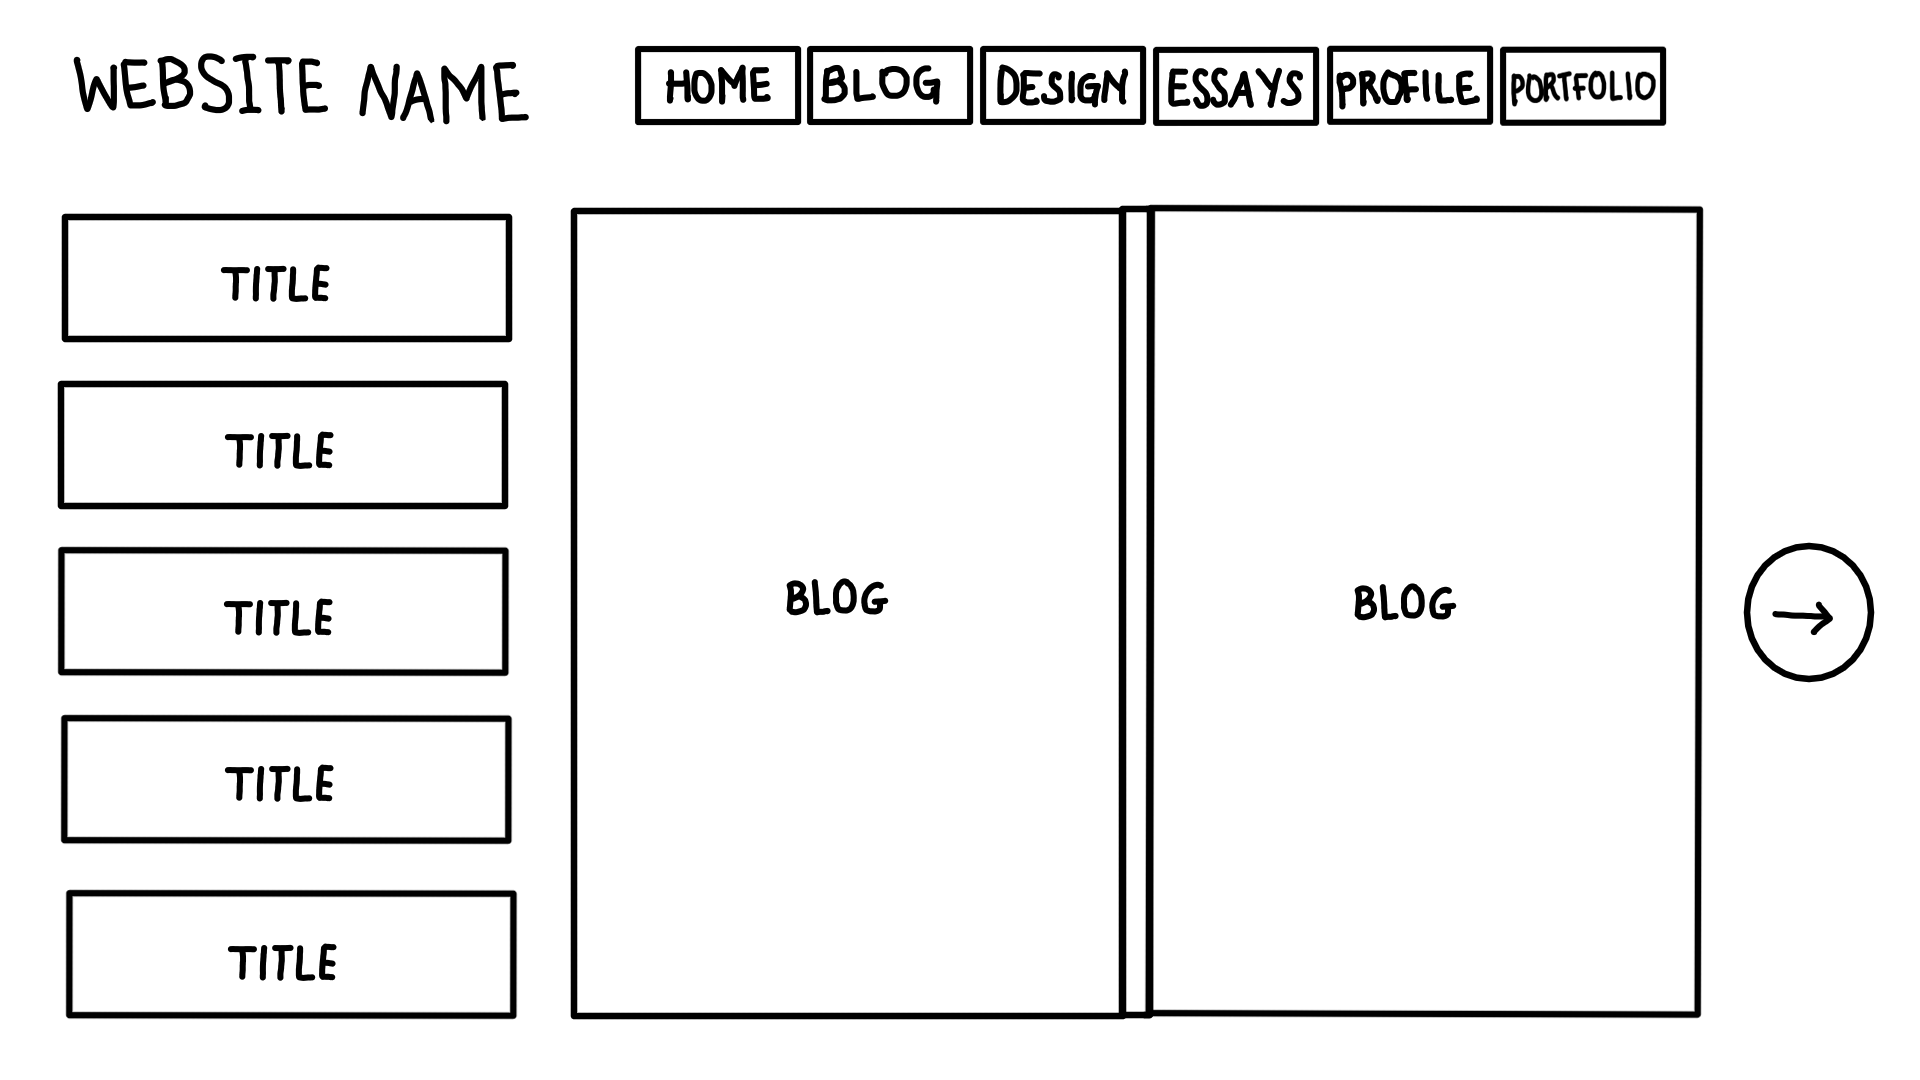
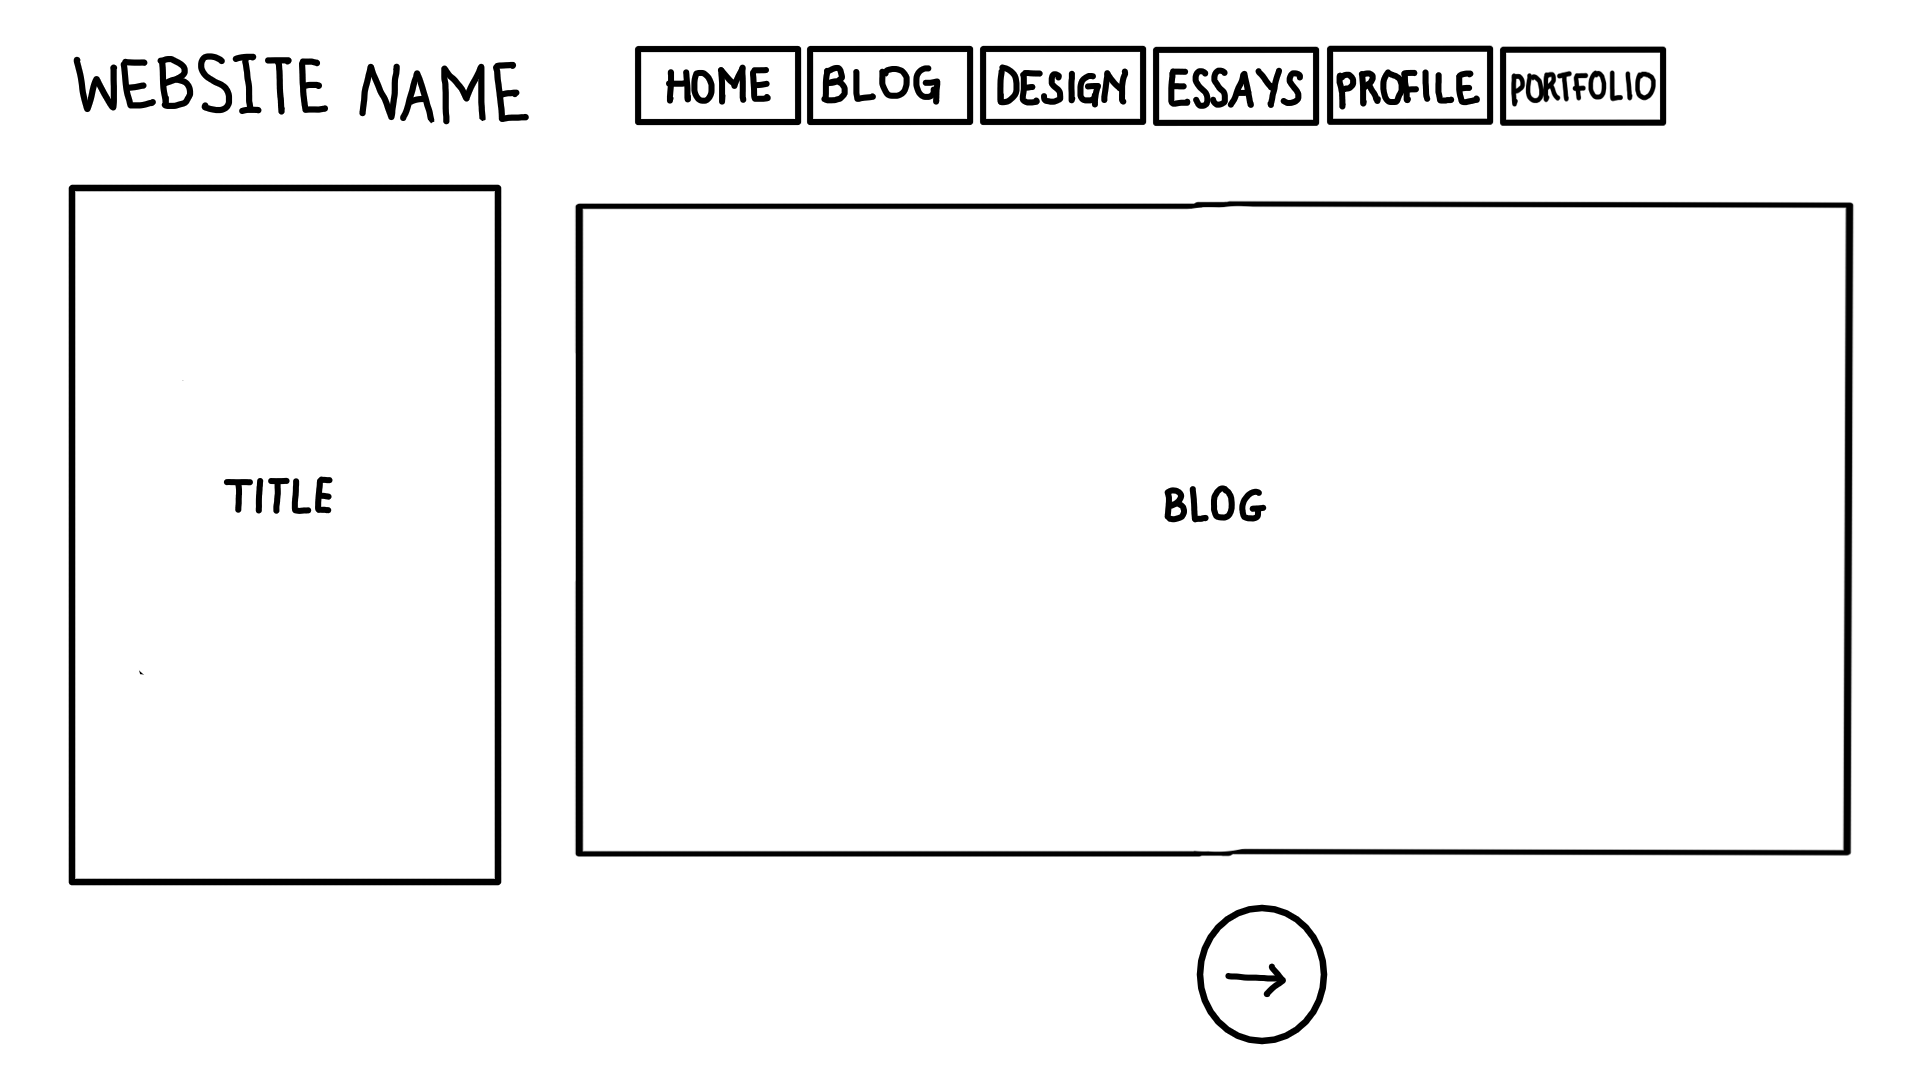
Added Wireframes To Design Page

diff --git a/design.html b/design.html
@@ -18,7 +18,7 @@
     <td><a  href="index.html">Home</a></td>
     <td><a  href="blog.html">Blog Posts</a></td>
     <td>Design Process</td>
-    <td><a  href="essays.html">Essays</a></td>
+    <td><a  href="essay1.html">Essays</a></td>
     <td><a  href="profile.html">Profile</a></td>
     <td><a  href="portfolio.html">Portfolio</a></td>
 </ul></h4>
@@ -32,64 +32,65 @@
 <header><h2>Wireframes</h2></header>
 
 <main>
-    <table border="2" cellspacing="0" cellpadding="10">
+    <table border="2" cellspacing="0" cellpadding="7">
     <tr>
-    <th>Homepage</th>
+    <th bgcolor="#d3d3d3"><h3>Homepage</h3></th>
     <td><img src="images/Home - Wireframe.png" width="600" height="400"alt="A homepage wireframe"></td> 
-    <td align="center">The homepage will have the website name at the top of the page in the middle. 
+    <td align="center"><font size="4px">The homepage will have the website name at the top of the page in the middle. 
         <br>Underneath it will be a navigation bar that the viewer can click to go to other pages. 
         <br>The rest of the page will be a large image that represents who I am or the theme 
-        <br>of my website.</td>
+        <br>of my website.</font></td>
     <tr>
     
     <tr>
-    <th>Blog</th>
+    <th bgcolor="#d3d3d3"><h3>Blog</h3></th>
     <td><img src="images/Blog - Wireframe.png" width="600" height="400"alt="A blog page wireframe"></td>
-    <td align="center">The blog page will have the website name at the top left corner and a navigation
-        <br>bar at the top right corner. On the left side of the page there will be links to other 
-        <br>blog posts (these are represented by the word "title"). The middle of the page will be 
-        <br>the blog post that is currently opened. It will look like the pages of a notebook. 
-        <br>On the right side there will be a button to turn the page.</td>
+    <td align="center"><font size="4px">The blog page will have the website name at the top left corner and a navigation
+        <br>bar at the top right corner. On the left side of the page there will be the title of the 
+        <br>blog post. The middle of the page will be the blog post that is currently opened.
+        <br>Below it there will be a button to go to the next page.</font></td>
     </tr>
 
     <tr>
-    <th>Design</th>
+    <th bgcolor="#d3d3d3"><h3>Design</h3></th>
     <td><img src="images/Design - Wireframe.png" width="600" height="400"alt="A design page wireframe"></td> 
-    <td align="center">The design page will have the website name at the top left corner and a navigation
+    <td align="center"><font size="4px">The design page will have the website name at the top left corner and a navigation
         <br>bar at the top right corner. On the left side of the page there will be images related 
-        <br>to the whatever information is written in the middled the page where it says "Design 
+        <br>to the whatever information is written in the middle of the page where it says "Design 
         <br>Process." Below it is a button to go to the next page. On the right is a slider to move 
-        <br>the page up and down.</td>
+        <br>the page up and down.</font></td>
     </tr>
 
     <tr>
-    <th>Essays</th>
+    <th bgcolor="#d3d3d3"><h3>Essays</h3></th>
     <td><img src="images/Essays - Wireframe.png" width="600" height="400"alt="An essays page wireframe"></td> 
-    <td align="center">The essay page will have the website name at the top left corner and a navigation
-        <br>bar at the top right corner. On the left is an extract. 
-        <br>The large rectangle is the essay. 
-        <br>The circle is the "next" button.</td> 
+    <td align="center"><font size="4px">The essay page will have the website name at the top left corner and a navigation
+        <br>bar at the top right corner. On the left side of the page will be the title of the essay 
+        <br>as well as an extract. The large rectangle is the essay. On the right there will be a 
+        <br>button to go to the next page.</font></td> 
     </tr>
 
     <tr>
-    <th>Profile</th>
+    <th bgcolor="#d3d3d3"><h3>Profile</h3></th>
     <td><img src="images/Profile - Wireframe.png" width="600" height="400"alt="A profile page wireframe"></td>  
-    <td align="center">The profile page will have the website name at the top left corner and a navigation
-        <br>bar at the top right corner. There will be a picture of myself and some paragraphs of my information.</td>
+    <td align="center"><font size="4px">The profile page will have the website name at the top left corner and a navigation
+        <br>bar at the top right corner. On the left there will be a picture of myself and on the 
+        <br>right/middle there will be paragraphs with my information.</font></td>
     </tr>
 
     <tr>
-    <th>Portfolio</th>
+    <th bgcolor="#d3d3d3"><h3>Portfolio</h3></th>
     <td><img src="images/Portfolio - Wireframe.png" width="600" height="400"alt="A portfolio page wireframe"></td> 
-    <td align="center">The portfolio page will have the website name at the top left corner and a navigation
-        <br>bar at the top right corner. The large rectangles are screenshots of my art. 
-        <br>Below them are "read more" buttons.</td>
+    <td align="center"><font size="4px">The portfolio page will have the website name at the top left corner and a navigation
+        <br>bar at the top right corner. The large rectangles represent screenshots of my artworks, 
+        <br>digital art, games, and animations. Below them are "read more" buttons for viewers to see 
+        <br>more information about the art.</font></td>
     </tr>
 </table>
 
-   <br>
-   Add documentation of your IxD process outlining your: Style process documentation: Reference material
-</p>
+<br>
+    <h2><a href="ixd.html">Next</a></h2>
+    <br>
 </main>
 </font></center>
 

diff --git a/ixd.html b/ixd.html
@@ -3,8 +3,7 @@
 <head>
     <meta charset="UTF-8">
     <meta name="viewport" content="width=device-width, initial-scale=1.0">
-    <meta name="description" content ="Profile">
-    <meta name="author" content="Zandile Gebuza"><title>Profile</title>
+    <title>Design</title>
 </head>
 <body>
     <center><strong>
@@ -18,9 +17,9 @@
 <h4><ul>
     <td><a  href="index.html">Home</a></td>
     <td><a  href="blog.html">Blog Posts</a></td>
-    <td><a  href="design.html">Design Process</a></td>
+    <td>Design Process</td>
     <td><a  href="essay1.html">Essays</a></td>
-    <td>Profile</td>
+    <td><a  href="profile.html">Profile</a></td>
     <td><a  href="portfolio.html">Portfolio</a></td>
 </ul></h4>
 </tr>
@@ -29,15 +28,16 @@
 </nav>
 </strong>
 
-<hr>
-<header><h2>Profile</h2></header>
+<br>
+<header><h2>IxD Process</h2></header>
 
 <main>
-    <p>
-        
-    </p>
+    Add documentation of your IxD process outlining your: Style process documentation: Reference material
+
+    <br>
+    <h2><a href="design.html">Back</a></h2>
+    <br>
 </main>
-</font></center>
 
 </body>
 </html>

diff --git a/essay2.html b/essay2.html
@@ -3,13 +3,12 @@
 <head>
     <meta charset="UTF-8">
     <meta name="viewport" content="width=device-width, initial-scale=1.0">
-    <meta name="description" content ="Profile">
-    <meta name="author" content="Zandile Gebuza"><title>Profile</title>
+    <title>Essays</title>
 </head>
 <body>
     <center><strong>
         <header><font size="7" face="Calibri">Zandile's Website</font></header> 
-    
+   
 <font face="Calibri">
 <nav>
 
@@ -19,8 +18,8 @@
     <td><a  href="index.html">Home</a></td>
     <td><a  href="blog.html">Blog Posts</a></td>
     <td><a  href="design.html">Design Process</a></td>
-    <td><a  href="essay1.html">Essays</a></td>
-    <td>Profile</td>
+    <td>Essays</td>
+    <td><a  href="profile.html">Profile</a></td>
     <td><a  href="portfolio.html">Portfolio</a></td>
 </ul></h4>
 </tr>
@@ -30,14 +29,17 @@
 </strong>
 
 <hr>
-<header><h2>Profile</h2></header>
+<header><h2>Essay 2 - </h2></header>
 
 <main>
     <p>
         
     </p>
+    <br>
+    <h2><a href="essay1.html">Back</a></h2>
+    <br>
 </main>
 </font></center>
-
+  
 </body>
 </html>

diff --git a/week5.html b/week5.html
@@ -3,7 +3,7 @@
 <head>
     <meta charset="UTF-8">
     <meta name="viewport" content="width=device-width, initial-scale=1.0">
-    <title>Document</title>
+    <title>Blog</title>
 </head>
 <body>
     <center><strong>
@@ -18,7 +18,7 @@
         <td><a  href="index.html">Home</a></td>
         <td>Blog Posts</td>
         <td><a  href="design.html">Design Process</a></td>
-        <td><a  href="essays.html">Essays</a></td>
+        <td><a  href="essay1.html">Essays</a></td>
         <td><a  href="profile.html">Profile</a></td>
         <td><a  href="portfolio.html">Portfolio</a></td>
     </ul></h4>

diff --git a/index.html b/index.html
@@ -21,7 +21,7 @@
         <td>Home</td>
         <td><a  href="blog.html">Blog Posts</a></td>
         <td><a  href="design.html">Design Process</a></td>
-        <td><a  href="essays.html">Essays</a></td>
+        <td><a  href="essay1.html">Essays</a></td>
         <td><a  href="profile.html">Profile</a></td>
         <td><a  href="portfolio.html">Portfolio</a></td>
     </ul></h4>

diff --git a/blog.html b/blog.html
@@ -19,7 +19,7 @@
     <td><a  href="index.html">Home</a></td>
     <td>Blog Posts</td>
     <td><a  href="design.html">Design Process</a></td>
-    <td><a  href="essays.html">Essays</a></td>
+    <td><a  href="essay1.html">Essays</a></td>
     <td><a  href="profile.html">Profile</a></td>
     <td><a  href="portfolio.html">Portfolio</a></td>
 </ul></h4>

diff --git a/portfolio.html b/portfolio.html
@@ -19,7 +19,7 @@
     <td><a  href="index.html">Home</a></td>
     <td><a  href="blog.html">Blog Posts</a></td>
     <td><a  href="design.html">Design Process</a></td>
-    <td><a  href="essays.html">Essays</a></td>
+    <td><a  href="essay1.html">Essays</a></td>
     <td><a  href="profile.html">Profile</a></td>
     <td>Portfolio</td>
 </ul></h4>

diff --git a/essay1.html b/essay1.html
@@ -30,12 +30,15 @@
 </strong>
 
 <hr>
-<header><h2>Essays</h2></header>
+<header><h2>Essay 1 - UI & UX Analysis</h2></header>
 
 <main>
     <p>
         
     </p>
+    <br>
+    <h2><a href="essay2.html">Next</a></h2>
+    <br>
 </main>
 </font></center>
 

diff --git a/week2.html b/week2.html
@@ -3,7 +3,7 @@
 <head>
     <meta charset="UTF-8">
     <meta name="viewport" content="width=device-width, initial-scale=1.0">
-    <title>Document</title>
+    <title>Blog</title>
 </head>
 <body>
     <center><strong>

diff --git a/week3.html b/week3.html
@@ -3,7 +3,7 @@
 <head>
     <meta charset="UTF-8">
     <meta name="viewport" content="width=device-width, initial-scale=1.0">
-    <title>Document</title>
+    <title>Blog</title>
 </head>
 <body>
     <center><strong>

diff --git a/week4.html b/week4.html
@@ -3,7 +3,7 @@
 <head>
     <meta charset="UTF-8">
     <meta name="viewport" content="width=device-width, initial-scale=1.0">
-    <title>Document</title>
+    <title>Blog</title>
 </head>
 <body>
     <center><strong>
